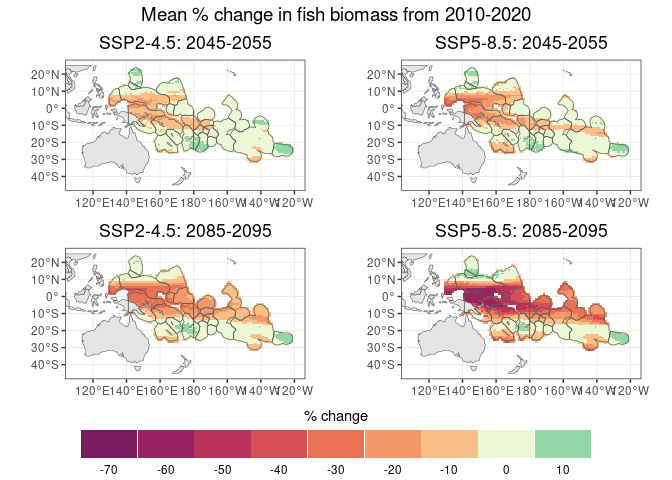
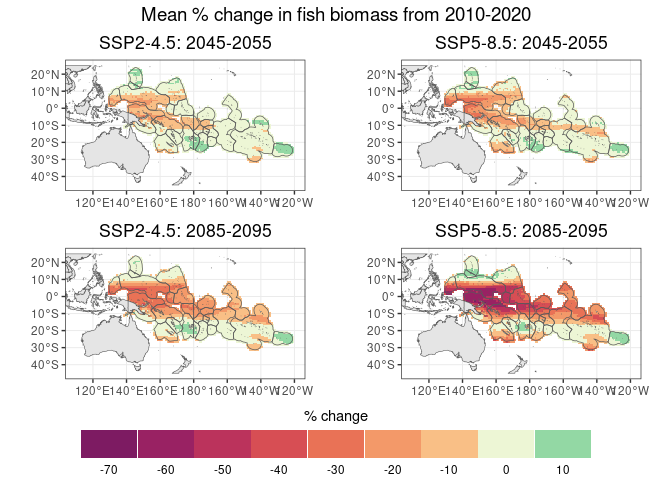
adding high resolution world map

diff --git a/Scripts/06_Mapping_biomass_change_SouthPacific.md b/Scripts/06_Mapping_biomass_change_SouthPacific.md
@@ -374,7 +374,7 @@ sf_use_s2(F)
 
 ``` r
 #Base map
-world <- ne_countries(returnclass = "sf")
+world <- ne_countries(returnclass = "sf", scale = "large")
 
 #Split world in two hemispheres 
 west <- st_crop(world, st_bbox(c(xmin = -180, ymin = -45, xmax = -120, ymax = 25)))
@@ -400,12 +400,7 @@ east <- st_crop(world, st_bbox(c(xmin = 60, ymin = -45, xmax = 180, ymax = 25)))
 #Merge them together
 oceancent <- rbind(st_set_crs(st_transform(west, "+proj=longlat +lon_wrap=180"), 
                               st_crs(east)), east)
-```
 
-    ## Warning: st_crs<- : replacing crs does not reproject data; use st_transform for
-    ## that
-
-``` r
 ## PICT EEZ boundaries
 picts <- read_sf("../Outputs/SouthPacific_EEZ-GBR.shp") |> 
   #Exclude Great Barrier Reef
